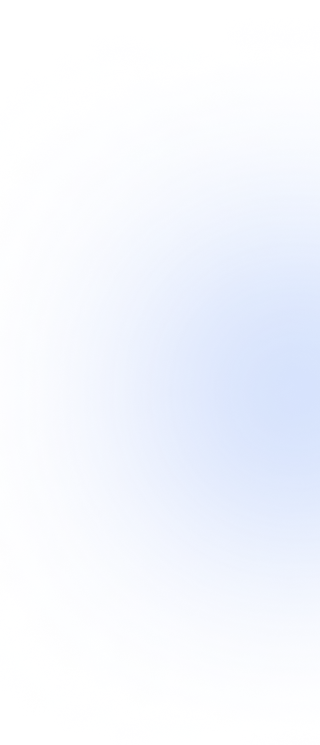
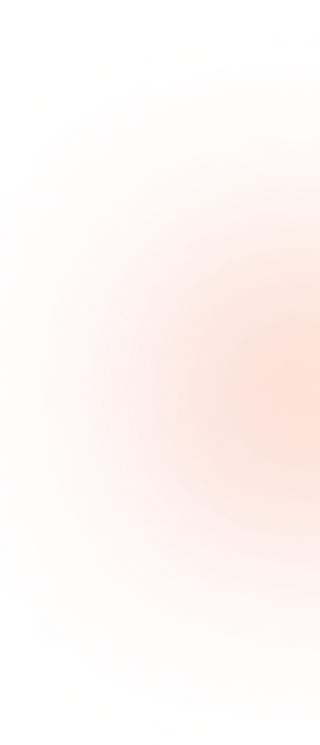
rework test task

Changed region(s): [[0.5312, 0.3396, 1.0, 0.7101]]

diff --git a/index.css b/index.css
@@ -3,7 +3,7 @@
 
 body {
   font-family: Lexend;
-  background: rgba(17, 10, 29, 1);
+  background: #191D0A;
 }
 
 button {
@@ -16,13 +16,14 @@ button {
   line-height: 20px;
   text-transform: uppercase;
   border-radius: 24px;
-  border: 2px solid #478bf9;
+  border: 2px solid #F97247;
   background: transparent;
   color: #ffffff;
 }
 
-button:hover {
-  background-color: #478bf9;
+button:active {
+  background-color: #F97247;
+  border: 2px solid #F97247;
 }
 
 .container {
@@ -46,7 +47,7 @@ button:hover {
 
 .header {
   margin: 16px 140px 0;
-  border: 2px solid #478bf9;
+  border: 2px solid #F97247;
   border-radius: 50px;
 }
 
@@ -89,7 +90,7 @@ button:hover {
 .menu li {
   margin-bottom: 5px;
   text-align: center;
-  border: 2px solid #478bf9;
+  border: 2px solid #F97247;
   border-radius: 50px;
 }
 
@@ -144,7 +145,7 @@ button:hover {
 }
 
 .navigation-list a:hover {
-  color: #478bf9;
+  color: #F97247;
 }
 
 .navigation-list li::before {
@@ -152,7 +153,7 @@ button:hover {
   position: absolute;
   width: 100%;
   height: 2px;
-  background-color: #478bf9;
+  background-color: #F97247;
   bottom: -4px;
   left: 0;
   opacity: 0;
@@ -174,6 +175,7 @@ button:hover {
 .btn {
   margin-right: 14px;
   cursor: pointer;
+  border: 2px solid #EBF29D;
 }
 
 .btn a {
@@ -197,7 +199,7 @@ button:hover {
   margin-right: 8px;
   width: 15px;
   height: 15px;
-  background-image: url("./assets/icon-planet.png");
+  background-image: url("./assets/world.png");
 }
 
 /* main */
@@ -226,7 +228,7 @@ button:hover {
   font-size: 96px;
   line-height: 96px;
   text-transform: uppercase;
-  color: #478bf9;
+  color: #F97247;
 }
 
 .description {
@@ -239,6 +241,7 @@ button:hover {
 }
 
 .main-btn {
+  padding: 18px 72px;
   font-weight: 600;
   font-size: 24px;
   line-height: 32px;
@@ -315,8 +318,9 @@ button:hover {
   max-height: 595px;
   margin-top: 24px;
   padding: 24px 16px 0 24px;
-  border: 3px solid #478bf9;
+  border: 3px solid #F97247;
   border-radius: 60px;
+  background-color: #FFFFFF1F;
   overflow: hidden;
 }
 
@@ -333,7 +337,7 @@ button:hover {
 }
 
 .scroll-container::-webkit-scrollbar-thumb {
-  background-color: #478bf9;
+  background-color: #F97247;
   border-radius: 10px;
 }
 
@@ -348,7 +352,11 @@ button:hover {
   padding: 16px 64px;
   margin-bottom: 16px;
   border-radius: 62px;
-  background: rgba(30, 18, 49, 1);
+  background: #311212;
+}
+
+.blog-item:hover {
+  background-color: #F97247;
 }
 
 .blog-message {
@@ -368,7 +376,7 @@ button:hover {
 /* footer */
 
 .footer-container {
-  border: 3px solid #478bf9;
+  border: 3px solid #F97247;
   border-top-left-radius: 60px;
   border-top-right-radius: 60px;
 }
@@ -400,7 +408,7 @@ button:hover {
 }
 
 .footer-list a:hover {
-  color: #478bf9;
+  color: #F97247;
 }
 
 .footer-list li::before {
@@ -408,7 +416,7 @@ button:hover {
   position: absolute;
   width: 100%;
   height: 2px;
-  background-color: #478bf9;
+  background-color: #F97247;
   bottom: -4px;
   left: 0;
   opacity: 0;

diff --git a/index.html b/index.html
@@ -57,21 +57,21 @@
       <main class="main">
         <div class="main-title">
           <h2 class="title">
-            House Of <span class="title-colored">Gambling</span>
+            Lorem IPSU <span class="title-colored">OPEN</span>
           </h2>
-          <p class="description">Raise your ROI with direct advertiser</p>
-          <button class="main-btn"><a href="#">Become a Partner</a></button>
+          <p class="description">Maybe You Maybe Me.</p>
+          <button class="main-btn"><a href="#">Partner</a></button>
         </div>
         <div class="main-banner">
           <div class="waterfall-container">
             <div class="banner-item">
-              <img src="./assets/Line_Vertical_1.png" alt="line" />
+              <img src="./assets/line_vertical_1.png" alt="line" />
             </div>
             <div class="banner-item appear">
-              <img src="./assets/line-2.png" alt="line" />
+              <img src="./assets/line_vertical_2.png" alt="line" />
             </div>
             <div class="banner-item">
-              <img src="./assets/Line_Vertical_3.png" alt="line" />
+              <img src="./assets/line_vertical_3.png" alt="line" />
             </div>
           </div>
         </div>
@@ -135,18 +135,6 @@
                 class="color-change"
                 src="./assets/twitter.png"
                 alt="twitter"
-            /></a>
-            <a class="social-icon" href="#"
-              ><img
-                class="color-change"
-                src="./assets/facebook.png"
-                alt="facebook"
-            /></a>
-            <a class="social-icon" href="#"
-              ><img
-                class="color-change"
-                src="./assets/instagram.png"
-                alt="instagram"
             /></a>
             <a class="social-icon" href="#"
               ><img

diff --git a/responsive.css b/responsive.css
@@ -13,7 +13,7 @@
   }
 
   .dot-light-circle {
-    content: url(./assets/dot-light-small.png);
+    content: url();
     width: 100%;
     bottom: 0;
     top: auto;
@@ -31,11 +31,17 @@
 
   .navigation {
     padding: 10px 14px;
+    justify-content: end;
+  }
+
+  .navigation-list {
+    display: none;
   }
 
   .screen-noscroll.active {
     content: "";
     position: fixed;
+    width: 100%;
   }
 
   .burger-menu {
@@ -44,7 +50,7 @@
 
   .menu {
     display: block;
-    background-color: #110a1d;
+    background-color: #191D0A;
     position: fixed;
     top: 85px;
     right: 0;
@@ -59,6 +65,10 @@
     transform: translateX(0);
   }
 
+  .menu-list li:active {
+    background-color: #F97247;
+  }
+
   .menu-btn {
     display: flex;
     flex-direction: column;
@@ -68,6 +78,13 @@
 
   .menu-btn button {
     margin-bottom: 0;
+    background: #311212;
+    border: 2px solid #EBF29D;
+  }
+
+  .menu-btn button:active {
+    background-color: #F97247;
+    border: 2px solid #F97247;
   }
 
   .menu-btn a {
@@ -81,21 +98,19 @@
   .btn {
     display: none;
     margin-right: 4px;
+    padding: 6px;
   }
 
   #language-toggle::before {
     content: "";
-    margin-left: 2px;
+    margin-left: 3px;
+    margin-top: 3px;
     margin-right: 0;
     margin-bottom: 0;
     width: 19px;
     height: 19px;
-    background-image: url("./assets/icon-planet.png");
+    background-image: url("./assets/world.png");
     background-repeat: no-repeat;
-  }
-
-  .navigation-list {
-    display: none;
   }
 
   .main {
